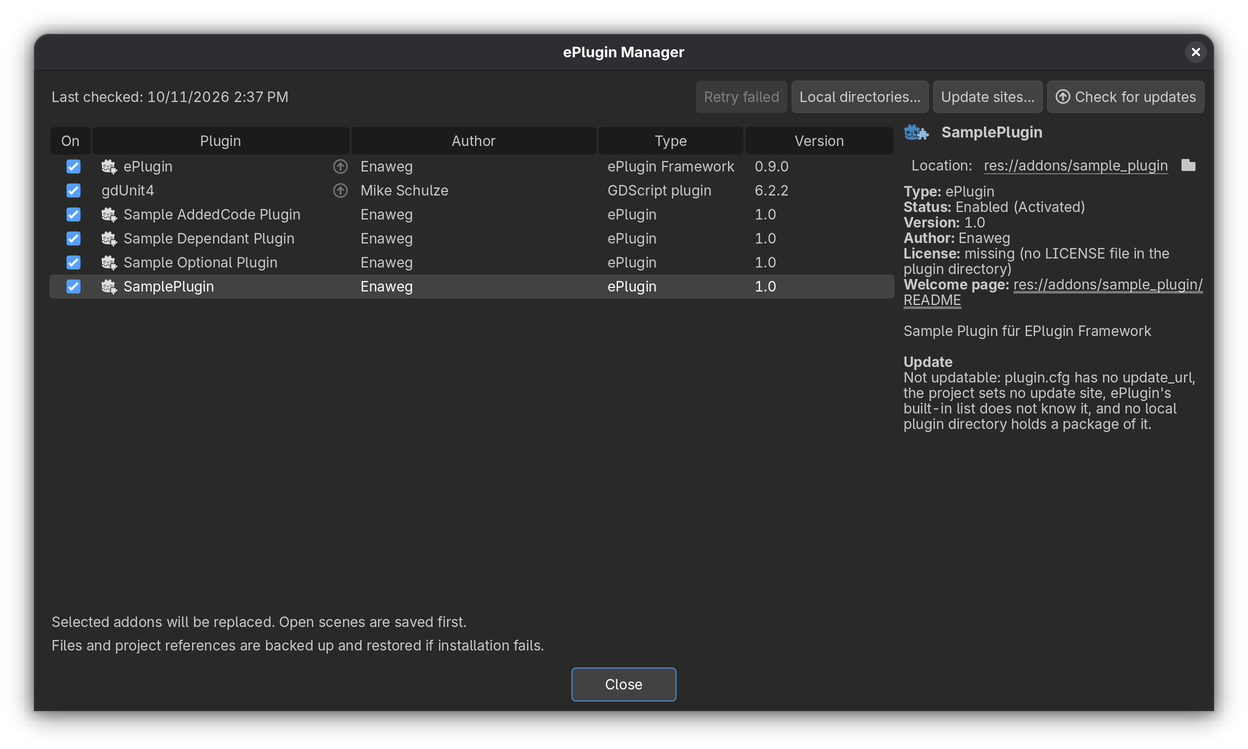
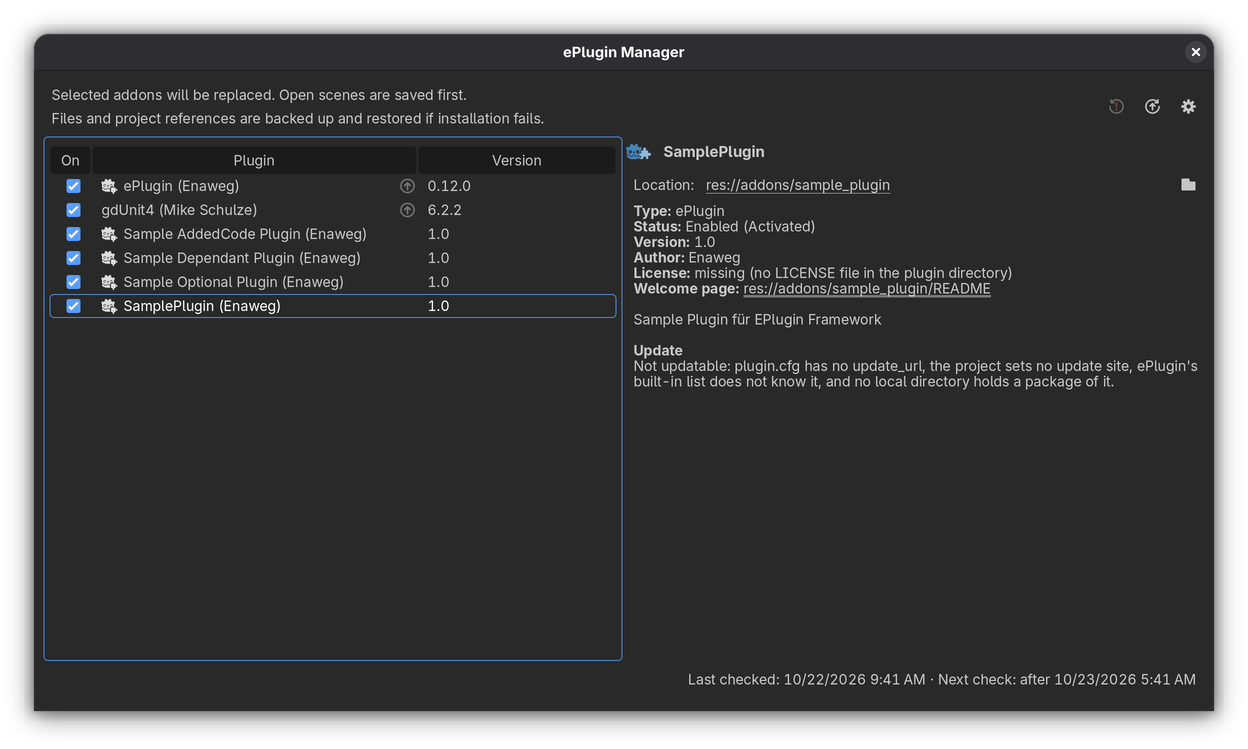
docs: describe the settings dialog and its update sources tab

diff --git a/docs/updating-plugins.md b/docs/updating-plugins.md
@@ -1,6 +1,6 @@
 # Updating plugins
 
-Plugins can publish updates from GitHub, GitLab, Forgejo or Gitea (such as Codeberg) releases, a Git source, or ZIP packages in a local plugin directory. Update checks report candidates; they do not install anything until you select packages in the [ePlugin Manager](eplugin-manager.md) and choose **Update**.
+Plugins can publish updates from GitHub, GitLab, Forgejo or Gitea (such as Codeberg) releases, a Git source, or ZIP packages in a local directory. Update checks report candidates; they do not install anything until you select packages in the [ePlugin Manager](eplugin-manager.md) and choose **Update**.
 
 ## Configure an update source
 
@@ -26,7 +26,7 @@ Supported source examples:
 | Git tags, for repositories that tag releases without ZIP assets | `https://github.com/owner/repository/tags`, `https://gitlab.example/group/repository/-/tags`, `https://codeberg.org/owner/repository/tags`, or `https://host/owner/repository.git` |
 | Git subtree tracking a branch | `https://host/owner/repository.git?path=addons/my_plugin#main` |
 | Git over SSH | `git@host:owner/repository.git?path=addons/my_plugin#main` |
-| Local plugin directories | ZIP files in folders you choose; no `update_url` required |
+| Local directories | ZIP files in folders you choose; no `update_url` required |
 | Project update sites | Any of the above, set by the project for a plugin; replaces its `update_url` |
 | Built-in update sites | ePlugin's list of popular add-ons, for plugins that name no working update site |
 
@@ -38,17 +38,17 @@ For private release APIs, set `EPLUGIN_GITHUB_TOKEN` (fallback `GITHUB_TOKEN`), 
 
 ## Project update sites
 
-A project can set the update site of a plugin itself, in **Update sites...** of the [ePlugin Manager](eplugin-manager.md). Use it for a plugin whose `plugin.cfg` has no `update_url`, or whose `update_url` changed and no longer finds updates. The project's update site replaces the plugin's `update_url` for checks, versions and downloads.
+A project can set the update site of a plugin itself, on the **Update sources** tab of the [ePlugin Manager](eplugin-manager.md)'s **Settings**. Use it for a plugin whose `plugin.cfg` has no `update_url`, or whose `update_url` changed and no longer finds updates. The project's update site replaces the plugin's `update_url` for checks, versions and downloads.
 
-- **Add...** chooses a plugin in `res://addons` from a list and asks for the update site URL.
+- **Add site...** chooses a plugin in `res://addons` from a list and asks for the update site URL.
 - **Edit...** (or double-clicking an entry) changes the URL of the selected plugin.
-- **Remove** deletes the entry; the plugin uses its `update_url` again.
+- **Remove** deletes the selected site; the plugin uses its `update_url` again.
 
-![Update sites dialog with a project update site for gdUnit4 and the expanded built-in list, installed add-ons first](images/eplugin-update-sites.png)
+![Update sources tab of the settings with a project update site for gdUnit4, a local directory with six packages, and the expanded built-in list, installed add-ons first](images/eplugin-update-sources.png)
 
 ![Edit update site dialog for gdUnit4 with its URL and the supported URL forms](images/eplugin-update-site-editor.png)
 
-The URL can be any [supported source](#configure-an-update-source): GitHub, GitLab or Forgejo releases, or a Git repository. Other URLs are refused when you save them. The dialog shows each plugin's `plugin.cfg` `update_url` next to the site that replaces it.
+The URL can be any [supported source](#configure-an-update-source): GitHub, GitLab or Forgejo releases, or a Git repository. Other URLs are refused when you save them. The editor shows the plugin's `plugin.cfg` `update_url`, which stays the fallback; so does the site's tooltip in the list.
 
 The project's update site is always tried first. When it does not work, the plugin's `update_url` is checked instead, and then its [built-in update site](#built-in-update-sites): for example when the site does not respond, returns an error, or is not a supported URL because the file was edited by hand. The output log and the manager's status line say when this happened. A plugin with no other site reports the failed check.
 
@@ -71,13 +71,11 @@ ePlugin ships a list of update sites for popular Godot add-ons. It is the last f
 
 The list matches add-ons by their folder name in `res://addons`. It holds active add-ons with at least 20 stars on GitHub or at least 5 on GitLab or Codeberg, plus add-ons listed explicitly in `tools/extra_addons.txt` (from any git host), that publish a release or tag their versions in git (prereleases included); for the latter it names the repository's tag page. Each add-on's folder name is the plugin folder in its latest release's ZIP or, without one, in its repository at that release or tag. A GDExtension without `plugin.cfg` counts as a plugin folder. GitLab and Codeberg add-ons come from those hosts' searches for Godot projects, which also find games, so they are listed only when their plugin folder is named like the repository. Add-ons without a plugin folder and add-ons whose release ZIP the updater would refuse are not in the list. The listed releases are not installed in advance, so an update found through the list is still validated and can be refused like any other.
 
-The list is read-only. **Update sites...** in the [ePlugin Manager](eplugin-manager.md) shows it below the project's update sites, with the installed add-ons first, so you can review which site each add-on uses. To use a different site for an add-on, set a [project update site](#project-update-sites); it is tried first. To ignore the list entirely, turn off `eplugin/updates/builtin_update_sites` in **Project Settings** (with **Advanced Settings** shown).
+The list is read-only. The **Update sources** tab of the [ePlugin Manager](eplugin-manager.md)'s **Settings** shows it below the project's update sites, with the installed add-ons first, so you can review which site each add-on uses. To use a different site for an add-on, set a [project update site](#project-update-sites); it is tried first. To ignore the list entirely, turn off **Built-in update sites** on the **General** tab of the settings (`eplugin/updates/builtin_update_sites`).
 
-## Local plugin directories
+## Local directories
 
-Local directories provide ZIP packages from a folder, network share, or downloaded release collection. Add them with **Local directories...** in the [ePlugin Manager](eplugin-manager.md). The list is stored in `eplugin/local-sources.json` in the Godot editor's user configuration folder, shared by projects, and never written to a project. A missing directory remains in the list for when a drive or share returns.
-
-![Local plugin directories dialog showing a release folder, six indexed packages, and the Rescan action](images/eplugin-local-directories.png)
+Local directories provide ZIP packages from a folder, network share, or downloaded release collection. A local directory is an update source for any plugin: one directory usually holds the packages of many plugins, so you typically need only one. Add it with **Add directory...** on the **Update sources** tab of the [ePlugin Manager](eplugin-manager.md)'s **Settings**, which lists each directory with the packages found in it. **Remove** removes the selected directory from the list without touching its files. The list is stored in `eplugin/local-sources.json` in the Godot editor's user configuration folder, shared by projects, and never written to a project. A missing directory remains in the list for when a drive or share returns.
 
 At editor startup and after C# assembly reloads, the framework indexes `*.zip` files in these directories and their subdirectories in the background. It reads each archive's file list and `plugin.cfg`, not the full archive. A cache in `eplugin/local-index.json` remembers each ZIP's metadata, so only new or changed ZIPs are opened again. Deleting the cache is safe. Adding or removing a directory, choosing **Rescan**, or selecting **Check for updates** indexes again. Hidden and system folders and folder links are skipped. ZIPs without a `plugin.cfg` are ignored; unreadable archives appear in the dialog with a status and are logged when first found.
 
@@ -110,7 +108,7 @@ The update list is part of ePlugin Manager. Select updates with the checkboxes i
 
 This screenshot uses example local ZIP releases of the repository's sample plugins; the displayed update versions are sample data.
 
-By default, the framework checks once per editor session when the last successful check was at least 20 hours ago. Results and the timestamp are cached under `.godot/eplugin/update-state.json`. The manager's **Check for updates** action bypasses the interval and also indexes local directories. Settings are under **Project Settings > eplugin/updates**.
+By default, the framework checks once per editor session when the last successful check was at least 20 hours ago. Results and the timestamp are cached under `.godot/eplugin/update-state.json`. The manager's **Check for updates** action bypasses the interval and also indexes local directories. The settings are on the **General** tab of the manager's **Settings** and under **Project Settings > eplugin/updates**; see [Update settings](#update-settings).
 
 The manager shows installed and candidate versions, sources, warnings, and earlier failures. Select a batch and choose **Update** to download and validate it. Package warnings require another confirmation before installation; a changed source host requires the explicit trust checkbox. Canceling the download leaves installed addons untouched. An update that comes with a license file not accepted yet shows it before installation; an update that keeps the accepted license file does not ask again (see [Plugin licenses](plugin-licenses.md#updates)). Updates never show a plugin's [welcome page](plugin-welcome.md#updates). Previously failed versions are shown but are not selected automatically. The **Version** selector also supports installing an earlier published version as a downgrade, and installing the installed version again with **Reinstall**, both with the same validation, backup, and rollback flow. Reinstalling picks up new commits of a Git branch whose `plugin.cfg` version did not change, and restores addon files that were changed by accident in the project.
 
@@ -176,6 +174,8 @@ The plugins-only build writes to the update's folder, never to the assembly the 
 When a build fails, the editor keeps running the code it loaded. ePlugin also puts the built assembly back after a failed non-incremental build (which removes it before compiling), so the editor still loads the C# plugins, including the ePlugin Manager and **Retry failed**, after a restart.
 
 ## Update settings
+
+The **General** tab of the [ePlugin Manager](eplugin-manager.md)'s **Settings** shows these settings, which are also listed under `eplugin/updates` in **Project Settings** (with **Advanced Settings** shown). They are stored in `project.godot`.
 
 | Setting | Default | Effect |
 |---|---|---|

diff --git a/docs/eplugin-manager.md b/docs/eplugin-manager.md
@@ -16,18 +16,16 @@ Select a plugin to see its status, author, documentation and source links, licen
 
 ## Actions
 
-The buttons at the top right of the manager are icons: **Retry failed**, **Local directories...**, **Update sites...**, **Check for updates** and **About**, from left to right. Hover over one to see its name and what it does.
+The buttons at the top right of the manager are icons: **Retry failed**, **Check for updates** and **Settings**, from left to right. Hover over one to see its name and what it does.
 
 - **On** enables or disables the selected plugin. Enabling an ePlugin installs its recipe and required dependencies. Plugins that ask for their [license](plugin-licenses.md) to be accepted show it first. Once installed, a plugin shows its [welcome page](plugin-welcome.md) if it has one and it was not shown for the project yet. Disabling a plugin also disables plugins that require it. The manager refreshes the list after toggles. Disabling ePlugin Framework itself requires confirmation because it closes the manager.
-- **Check for updates** checks immediately regardless of the scheduled interval and indexes local plugin directories again.
-- **Local directories...** adds, removes, or rescans folders containing plugin ZIP packages. The folders are user-wide settings; see [Updating plugins](updating-plugins.md#local-plugin-directories).
-- **Update sites...** adds, edits, or removes update sites the project sets for its plugins. They replace a plugin's `update_url`, which is still used when the site does not work. They are saved in the project; see [Updating plugins](updating-plugins.md#project-update-sites). The dialog also lists ePlugin's read-only [built-in update sites](updating-plugins.md#built-in-update-sites).
-- **About** shows the installed ePlugin Framework's logo, version, and description, with links to its page in the Godot Asset Store, its source code, and its documentation. A highlighted note asks you to star the project on GitHub if it is useful to you, and links to its GitHub page, where the **Star** button is. The links open in the system browser.
+- **Check for updates** checks immediately regardless of the scheduled interval and indexes local directories again.
+- **Settings** opens ePlugin's settings, in four tabs (see [Settings](#settings)).
 - **Update** installs the checked updates after validation and confirmation. See [Updating plugins](updating-plugins.md). Independent plugins are installed one after another, so a plugin that fails is rolled back without the others; a build failure is rolled back without asking. The manager stays open and reports the installed versions, and the plugins that were rolled back or skipped with their reason, when the update finishes; an update that restarts the editor reopens it afterwards.
 - **Retry failed** retries activation, deactivation, or update work that failed or was interrupted. See [Plugin state files](plugin-state.md).
 - A plugin whose update was kept although the project does not build with it, for example because only the project's own code has to be adapted, shows a **Kept update** section in its details: the versions, why it was kept, the remaining errors in the project's code, and a **Roll back to** link that restores the previous version. See [Updates that only break the project's code](updating-plugins.md#updates-that-only-break-the-projects-code).
 - **Open release page** opens the release notes for the selected update.
-- **Version** selects a published version for an enabled plugin with an `update_url` or a package in a local plugin directory. Choose **Update** or **Downgrade** to install it, or **Reinstall** with the installed version selected to install it again: this gets new commits of a pinned Git branch whose version did not change, and repairs addon files changed in the project. Downgrades and reinstalls use the same download, validation, backup, and rollback flow as updates. When the project does not build with the installed version, a dialog asks whether to keep it, to fix the errors yourself and finish with **Retry failed**, or to roll it back (see [Builds, restart, and recovery](updating-plugins.md#builds-restart-and-recovery)). The ePlugin Framework itself cannot be downgraded because an older framework cannot complete or recover the update that installs it.
+- **Version** selects a published version for an enabled plugin with an `update_url` or a package in a local directory. Choose **Update** or **Downgrade** to install it, or **Reinstall** with the installed version selected to install it again: this gets new commits of a pinned Git branch whose version did not change, and repairs addon files changed in the project. Downgrades and reinstalls use the same download, validation, backup, and rollback flow as updates. When the project does not build with the installed version, a dialog asks whether to keep it, to fix the errors yourself and finish with **Retry failed**, or to roll it back (see [Builds, restart, and recovery](updating-plugins.md#builds-restart-and-recovery)). The ePlugin Framework itself cannot be downgraded because an older framework cannot complete or recover the update that installs it.
 
 Long-running actions (enabling and disabling, **Retry failed**, **Check for updates**, downloading and installing) show their progress in ePlugin's separate progress window; the manager's status line at the bottom right reports the outcome. While updates are downloaded and installed, a **Cancel** button stops them; otherwise the manager has no button to close it, use the window's close button or Escape. After the C# project was rebuilt, for example by an activation or an IDE build, the actions wait until the editor has loaded the rebuilt code, and the status line says *Waiting for the editor to load the rebuilt C# code...* meanwhile. They become available again after at most 15 seconds, even if the editor does not reload.
 
@@ -39,6 +37,16 @@ Progress feedback is best effort. If the helper is unavailable or stops respondi
 
 ![The ePlugin Framework progress window while Sample Dependant Plugin is activated](images/activation-progress.png)
 
+## Settings
+
+**Settings** opens a dialog with three tabs. It opens on **General** and reads every tab again each time.
+
+- **General** shows ePlugin's project settings, the same ones Project Settings lists under ePlugin with **Advanced Settings** shown: the [update settings](updating-plugins.md#update-settings), [accepting licenses automatically](plugin-licenses.md#accepting-licenses-automatically), and [debug logging](creating-plugins.md#troubleshooting). A change is saved to `project.godot` right away, so it applies to everyone working on the project once it is committed. Turning on **Accept every license without showing it** asks for confirmation first. Hover over a setting to see its description and its name in Project Settings.
+- **Update sources** lists where updates come from: the update sites the project sets for its plugins, your local directories with the plugin packages found in each, and ePlugin's read-only [built-in update sites](updating-plugins.md#built-in-update-sites). **Add site...**, **Edit...** and **Remove** change the project's update sites, which replace a plugin's `update_url` (still used when the site does not work) and are saved in the project; see [Project update sites](updating-plugins.md#project-update-sites). **Add directory...**, **Remove** and **Rescan** manage the local directories, folders with plugin ZIP packages that are user-wide settings; see [Local directories](updating-plugins.md#local-directories).
+- **About** shows the installed ePlugin Framework's logo, version, and description, with links to its page in the Godot Asset Store, its source code, and its documentation. A highlighted note asks you to star the project on GitHub if it is useful to you, and links to its GitHub page, where the **Star** button is. The links open in the system browser.
+
+![The General tab of the ePlugin settings with the update, license and logging settings](images/eplugin-settings.png)
+
 ## Scheduled checks
 
-By default, update checks run once per editor session when the last successful check is at least 20 hours old. The manager's **Check for updates** action bypasses that interval. The status line shows when updates were last checked and when the next scheduled check runs: the first editor start after that time, *at the next editor start* when one is due already, or *off* when scheduled checks are disabled. Update settings are under **Project Settings > eplugin/updates**; the available settings are described in [Updating plugins](updating-plugins.md#update-settings).
+By default, update checks run once per editor session when the last successful check is at least 20 hours old. The manager's **Check for updates** action bypasses that interval. The status line shows when updates were last checked and when the next scheduled check runs: the first editor start after that time, *at the next editor start* when one is due already, or *off* when scheduled checks are disabled. Update settings are on the **General** tab of the [Settings](#settings); they are described in [Updating plugins](updating-plugins.md#update-settings).

diff --git a/CLAUDE.md b/CLAUDE.md
@@ -305,8 +305,15 @@ the view model when pending updates, enabled plugins or their states changed; th
 `EGlobal.RestartRequested` writes `ManagerReopenMarker` (`.godot/eplugin/manager-open`, renewed by an interim restart,
 expires after an hour); the start that requests no further restart wraps `Initialize` in one `ActivationProgress` scope,
 reopens the manager and closes that progress window a few frames later. Every dialog is its own scene (`EPluginManagerDialog.tscn`,
-`LocalSourcesDialog.tscn`, `UpdateFailureDialog.tscn`, `AboutDialog.tscn`); scripts only bind `%`-unique nodes and set what a scene cannot
-store (e.g. Tree column titles/widths). Keep layout changes in the scenes. Close dialogs with `EditorWindows.Release`, never `QueueFree` in the frame that hides them: freeing a window from its
+`SettingsDialog.tscn`, `UpdateFailureDialog.tscn`, `LicenseDialog.tscn`, `WelcomeDialog.tscn`); scripts only bind
+`%`-unique nodes and set what a scene cannot store (e.g. Tree column titles/widths). Keep layout changes in the scenes.
+The manager's Settings button opens `SettingsDialog`, a `TabContainer` whose tabs (General, Update sources, About) each
+have their own script (`GeneralSettingsTab`, `UpdateSourcesTab`, `AboutTab`); the dialog owns the windows the tabs open.
+Update sources lists the project's update sites, the user's local directories (each with the packages the index found in
+it; a local directory is one update source for any number of plugins) and the built-in list in one tree. Tab titles are the tab nodes' names, because Godot 4.4 ignores
+`metadata/_tab_name`. The General tab shows every `eplugin/*` project setting: a control names its setting in its
+`setting` metadata (an OptionButton its item values in `values`) and is saved to `project.godot` on change, so a new
+setting needs only a control in the scene; `SettingsDialogTests` checks that every registered setting is bound. Close dialogs with `EditorWindows.Release`, never `QueueFree` in the frame that hides them: freeing a window from its
 own button, or right after a reload while it has focus and the mouse, crashed Godot 4.7.2 on the next window message
 (use-after-free in its message handling). Release hides it now and frees it 0.25 s later through a native callable.
 Scene roots set `auto_translate_mode = 2`,
@@ -382,7 +389,7 @@ still inside its `_EnablePlugin`), the review is queued, and `EPluginPlugin._Pro
 later; accepting re-enables it. `ReviewEnabledLicenses` (end of `Initialize`) asks about enabled plugins whose license
 source is not accepted, e.g. a recipe license an update changed; declining disables them. The ePlugin Manager asks
 before `SetPluginEnabled` and before installing staged updates (skipping recipe-licensed plugins), and its details link
-the license to `LicenseDialog.CreateViewer`. The `eplugin/licenses/auto_accept` project setting (no manager UI, logged)
+the license to `LicenseDialog.CreateViewer`. The `eplugin/licenses/auto_accept` project setting (on the settings' General tab, which confirms turning it on; logged)
 skips the dialog.
 
 ### Plugin welcome pages

diff --git a/docs/gdextension-plugins.md b/docs/gdextension-plugins.md
@@ -61,7 +61,7 @@ ePlugin treats every folder directly below `res://addons` that has no `plugin.cf
 
 - **Manager.** It is listed with the type *GDExtension add-on* and the status *Always loaded*: Godot loads it whatever is enabled, so there is nothing to enable or disable. Its name is the folder name, or the name in ePlugin's built-in list. Its license is its `LICENSE` file and its README is linked as its welcome page, but neither is ever asked for or shown on its own.
 - **Version.** Its files name no version. ePlugin records the version it installs in `addons/eplugin-state.json`, like the versions of plugins. Until ePlugin has installed one, the version is *unknown*.
-- **Updates.** Its update site is the one the project sets for it under **Update sites**, or the one of ePlugin's [built-in list](updating-plugins.md#built-in-update-sites). The version is the release's or tag's, so it can be updated from GitHub, GitLab and Forgejo releases and from version tags, but not from a pinned branch or from local plugin directories. While its version is unknown, checks offer no update for it, but they look up its latest release: its details preselect that version, and **Install** installs it (or another version you choose). The latest release a check found is offered even when the update site's versions cannot be listed, e.g. while GitHub's rate limit is reached. From then on, updates are found as for any plugin. An add-on whose new version brings a `plugin.cfg` becomes a plugin with that update; enable it afterwards.
+- **Updates.** Its update site is the one the project sets for it on the **Update sources** tab of the manager's **Settings**, or the one of ePlugin's [built-in list](updating-plugins.md#built-in-update-sites). The version is the release's or tag's, so it can be updated from GitHub, GitLab and Forgejo releases and from version tags, but not from a pinned branch or from local directories. While its version is unknown, checks offer no update for it, but they look up its latest release: its details preselect that version, and **Install** installs it (or another version you choose). The latest release a check found is offered even when the update site's versions cannot be listed, e.g. while GitHub's rate limit is reached. From then on, updates are found as for any plugin. An add-on whose new version brings a `plugin.cfg` becomes a plugin with that update; enable it afterwards.
 - **Dependencies.** An ePlugin can require it with `AddPluginDependency` or `AddOptionalPluginDependency`. It is always available, so it is never enabled for it. A version constraint is checked against the recorded version; while that is unknown, an activation with a constraint fails and says so.
 
 A release of a GDExtension add-on puts the add-on in a folder named like its slug, at any depth (`addons/godot_servo/` in the ZIP or the repository). Without a `plugin.cfg`, nothing else identifies it. Otherwise the [rules for releases](#publish-a-release) apply as for GDExtension plugins.

diff --git a/docs/gdscript-plugins.md b/docs/gdscript-plugins.md
@@ -116,7 +116,7 @@ The folder can also sit at the ZIP's root (`my_tool/plugin.cfg`) or inside one w
 zip -r my_tool-1.2.0.zip addons/my_tool
 ```
 
-Attach the ZIP to a GitHub, GitLab, Forgejo or Gitea (Codeberg) release, or put it in a [local plugin directory](updating-plugins.md#local-plugin-directories). Without a ZIP asset, the release's source archive is used; repositories that only tag their versions use the tag source above.
+Attach the ZIP to a GitHub, GitLab, Forgejo or Gitea (Codeberg) release, or put it in a [local directory](updating-plugins.md#local-directories). Without a ZIP asset, the release's source archive is used; repositories that only tag their versions use the tag source above.
 
 - Raise `version` in `plugin.cfg` for every release. Versions have two to four numbers (`1.2`, `1.2.0`, `1.2.0.1`), optionally a leading `v` and a prerelease suffix such as `-beta.1`. Name the release or tag after the same version.
 - Keep the folder name stable. It is the plugin's slug, which update sites and dependencies refer to.
@@ -126,7 +126,7 @@ All rules are in [Publish an updatable release](updating-plugins.md#publish-an-u
 
 ### Plugins without an update_url
 
-A project can update a GDScript plugin that has no `update_url`, or whose `update_url` stopped working, without changing the plugin. **Update sites...** in the ePlugin Manager stores a site per plugin in the committed `res://addons/eplugin-update-sites.json`:
+A project can update a GDScript plugin that has no `update_url`, or whose `update_url` stopped working, without changing the plugin. The **Update sources** tab of the ePlugin Manager's **Settings** stores a site per plugin in the committed `res://addons/eplugin-update-sites.json`:
 
 ```json
 {
@@ -137,7 +137,7 @@ A project can update a GDScript plugin that has no `update_url`, or whose `updat
 }
 ```
 
-Popular add-ons are also covered by ePlugin's [built-in update sites](updating-plugins.md#built-in-update-sites), which many GDScript add-ons are part of. A ZIP in a local plugin directory works for any plugin as well. See [Project update sites](updating-plugins.md#project-update-sites).
+Popular add-ons are also covered by ePlugin's [built-in update sites](updating-plugins.md#built-in-update-sites), which many GDScript add-ons are part of. A ZIP in a local directory works for any plugin as well. See [Project update sites](updating-plugins.md#project-update-sites).
 
 ## License
 

diff --git a/docs/internals/update-system.md b/docs/internals/update-system.md
@@ -16,9 +16,9 @@ editor in `UpdateFlowTests`.
 
 ## Sources
 
-### Local plugin directories
+### Local directories
 
-Local plugin directories (`LocalSourceSettings`, per-user JSON in the editor config folder, never in the project) are a
+Local directories (`LocalSourceSettings`, per-user JSON in the editor config folder, never in the project) are a
 second source next to `update_url`. `LocalPackageIndexer` reads only the central directory and `plugin.cfg` of every ZIP
 below them, using `SafeZipExtractor.PluginRoot` (one root `plugin.cfg`, sub-plugins below it, anything else ambiguous),
 so it never lists what staging would refuse; the root folder's name is the slug it matches.
@@ -31,7 +31,7 @@ directories are skipped but kept in the list. `PendingUpdates` merges remote and
 ### Project update sites
 
 Project update sites (`UpdateSiteSettings`, the committed `res://addons/eplugin-update-sites.json`,
-`EGlobal.UpdateSites.cs`, `UpdateSitesDialog`) replace a plugin's `update_url`. `PluginUpdateTarget.UpdateUrl` stays the
+`EGlobal.UpdateSites.cs`, `UpdateSourcesTab`) replace a plugin's `update_url`. `PluginUpdateTarget.UpdateUrl` stays the
 `plugin.cfg` value (the validator's R9 compares new packages against it) and `OverrideUrl` holds the project's site;
 `UpdateUrls` lists the override first. `UpdateService.FirstWorkingSiteAsync` tries them in order, so an unsupported or
 failing site falls back to `plugin.cfg` (reported in `UpdateCheckResult.Fallbacks`), and a candidate from either URL

diff --git a/docs/internals/editor-icons.md b/docs/internals/editor-icons.md
@@ -68,13 +68,11 @@ at least 1.5 wide, filled in `#e0e0e0`.
 | `eplugin_editor.svg` | ePlugin Manager, ePlugin rows | – | Robot head and puzzle piece (`id="piece"` is tinted by status) |
 | `update.svg` | Update available in the plugin list | Closed | Up arrow (white mask) |
 | `rescan.svg` | Check for updates, Rescan (local directories) | Clockwise | Up arrow |
-| `settings.svg` | Update sites... | – | Gear |
+| `settings.svg` | Settings | – | Gear |
 | `retry.svg` | Retry failed | Counter-clockwise | `!` in error |
 | `upgrade.svg` | Update (version button, manager OK button) | Closed | Up arrow in success |
 | `reinstall.svg` | Reinstall (version button and confirmation) | Clockwise | Plus in success |
 | `downgrade.svg` | Downgrade (version button and confirmation) | Closed | Down arrow in warning |
-| `about.svg` | About | Closed | `i` |
-| `directories.svg` | Local directories... | – | Folder outline (Godot's filled `Folder` is the details' Open button) |
 
 Rescan and upgrade differ by the ring and the color only, so don't put them next to each other without a label.
 

diff --git a/docs/plugin-licenses.md b/docs/plugin-licenses.md
@@ -77,7 +77,7 @@ The plugin details of the [ePlugin Manager](eplugin-manager.md) show each plugin
 
 ## Accepting licenses automatically
 
-The project setting `eplugin/licenses/auto_accept` (Project Settings > General, with Advanced Settings shown) accepts every license without showing it. It is stored in `project.godot`, so it applies to everyone working on the project.
+The project setting `eplugin/licenses/auto_accept` accepts every license without showing it. Turn it on with **Accept every license without showing it** on the **General** tab of the [ePlugin Manager](eplugin-manager.md)'s **Settings**, which asks for confirmation first, or in Project Settings > General (with Advanced Settings shown). It is stored in `project.godot`, so it applies to everyone working on the project.
 
 > [!WARNING]
 > This is risky. You agree to license terms nobody has read, which may for example restrict commercial use, require attribution or forbid redistribution. Each license accepted this way is logged with a warning and recorded as accepted automatically.

diff --git a/docs/creating-plugins.md b/docs/creating-plugins.md
@@ -123,4 +123,4 @@ An `EditorPlugin` that implements `IInitialize` itself is initialized when the f
 
 ## Troubleshooting
 
-Turn on `eplugin/logging/debug` in **Project Settings** (with **Advanced Settings** shown) to log every dotnet command ePlugin runs and more detail about dependency resolution. It is read when the framework starts, so it applies after the next C# build or editor restart. If ePlugin itself fails to start, the error is logged and it tries again every 10 seconds.
+Turn on **Debug logging** on the **General** tab of the [ePlugin Manager](eplugin-manager.md)'s **Settings**, or `eplugin/logging/debug` in **Project Settings** (with **Advanced Settings** shown), to log every dotnet command ePlugin runs and more detail about dependency resolution. It is read when the framework starts, so it applies after the next C# build or editor restart. If ePlugin itself fails to start, the error is logged and it tries again every 10 seconds.
